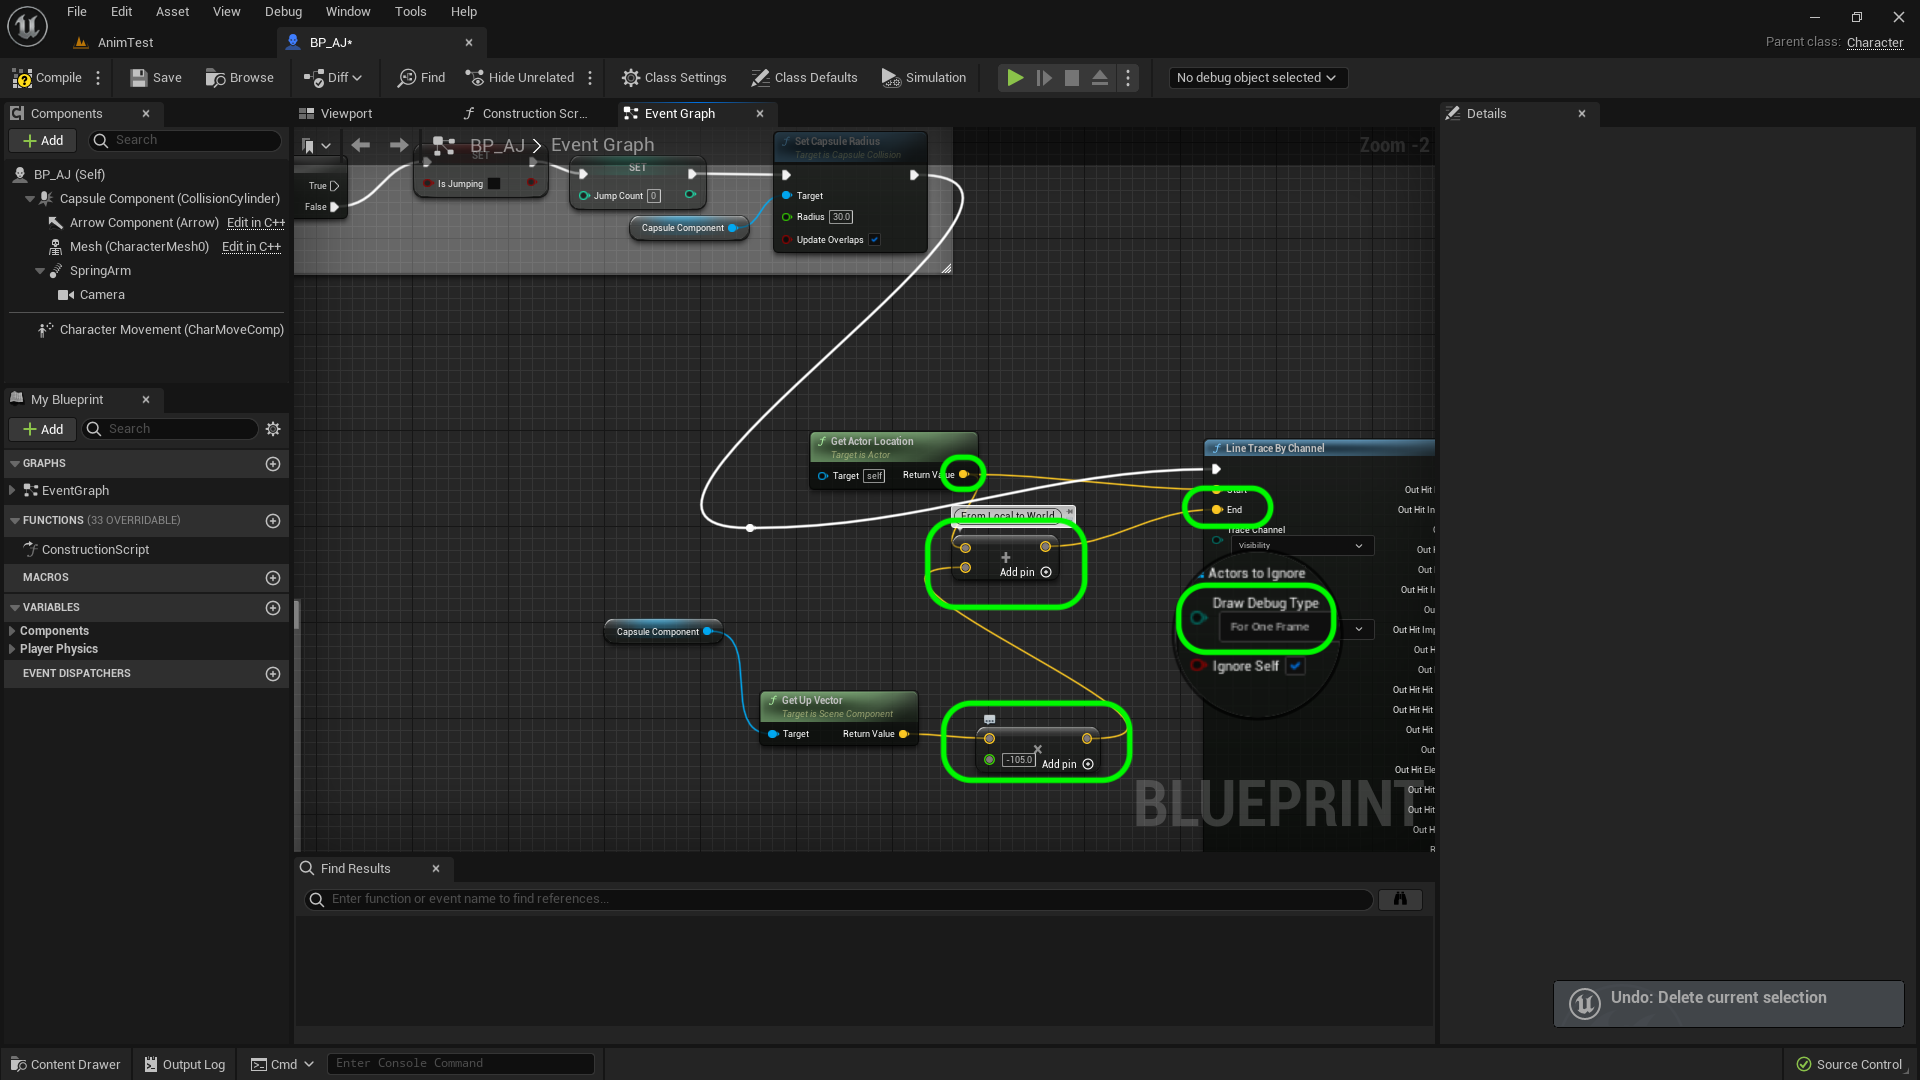
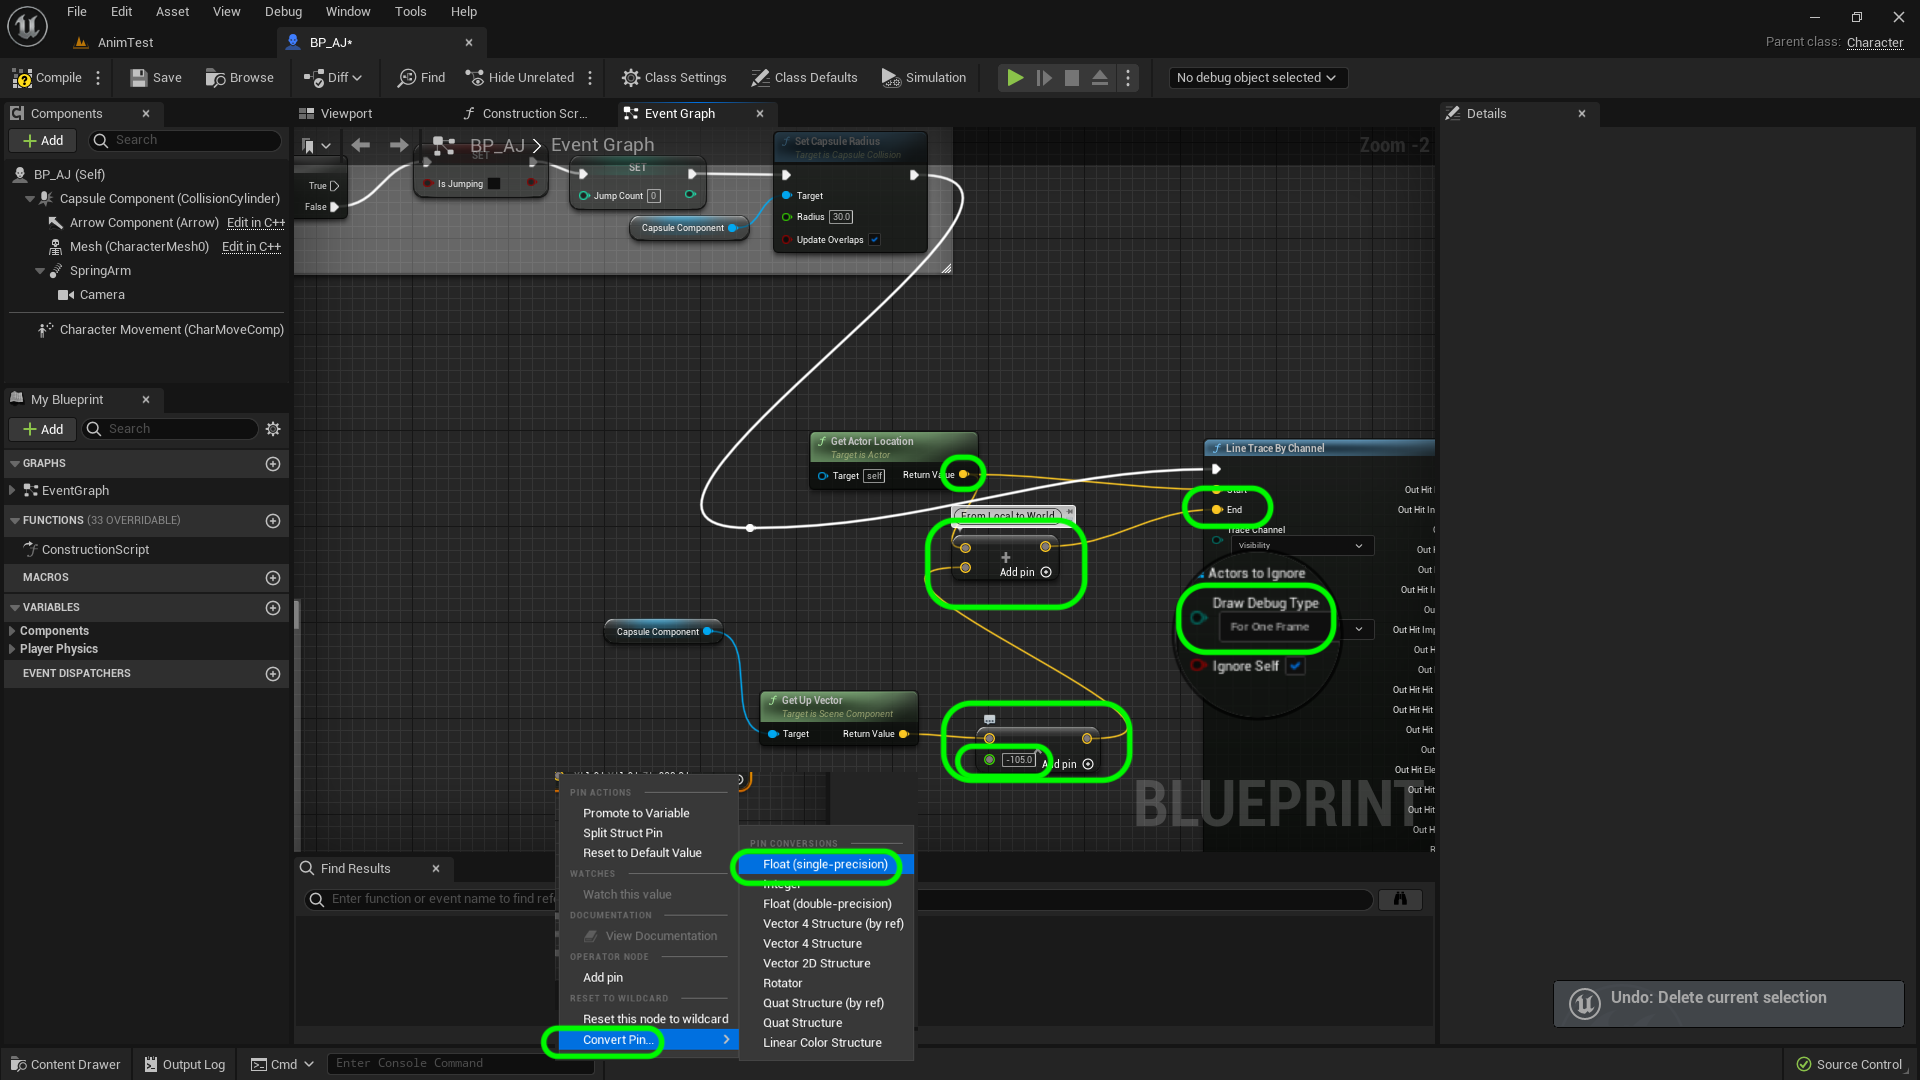
updating animtaion to ue5

Changed region(s): [[0.2812, 0.7333, 0.5, 1.0], [0.5, 0.6722, 0.5625, 0.7333]]

diff --git a/ramps/README.md b/ramps/README.md
@@ -77,12 +77,15 @@ Drag a **Capsule Component** onto the graph.  Then *pull off* the pin and select
 
 ##### `Step 8.`\|`ITA`| :small_orange_diamond: :small_blue_diamond: :small_blue_diamond: :small_blue_diamond:
 
-![get up vector](images/drawDebugLine.png)
+Drag the **Get Up Vector | Return Value** and multiply it by `-105`.  When you add the multiply node you need to right click the bottom pin and select **Convert Pin | Float(single precision)** to change it to a float.  Set it to `-105` so that is goes 105 cm under the player's center of their collision volume. In **Draw Debug Type** select `For One Frame`.
 
+![get up vector](images/drawDebugLine.png)
 
 ![](../images/line2.png)
 
 ##### `Step 9.`\|`ITA`| :small_orange_diamond: :small_blue_diamond: :small_blue_diamond: :small_blue_diamond: :small_blue_diamond:
+
+**Compile** the blueprint and *press* the <kbd>Play</kbd> button.  Now you should see a square target at the buttom of the ray, which means it is reaching and touching the ground.  Make sure you run up and down the slopd and make sure it is working on all surfaces.
 
 ![](../images/line2.png)
 
